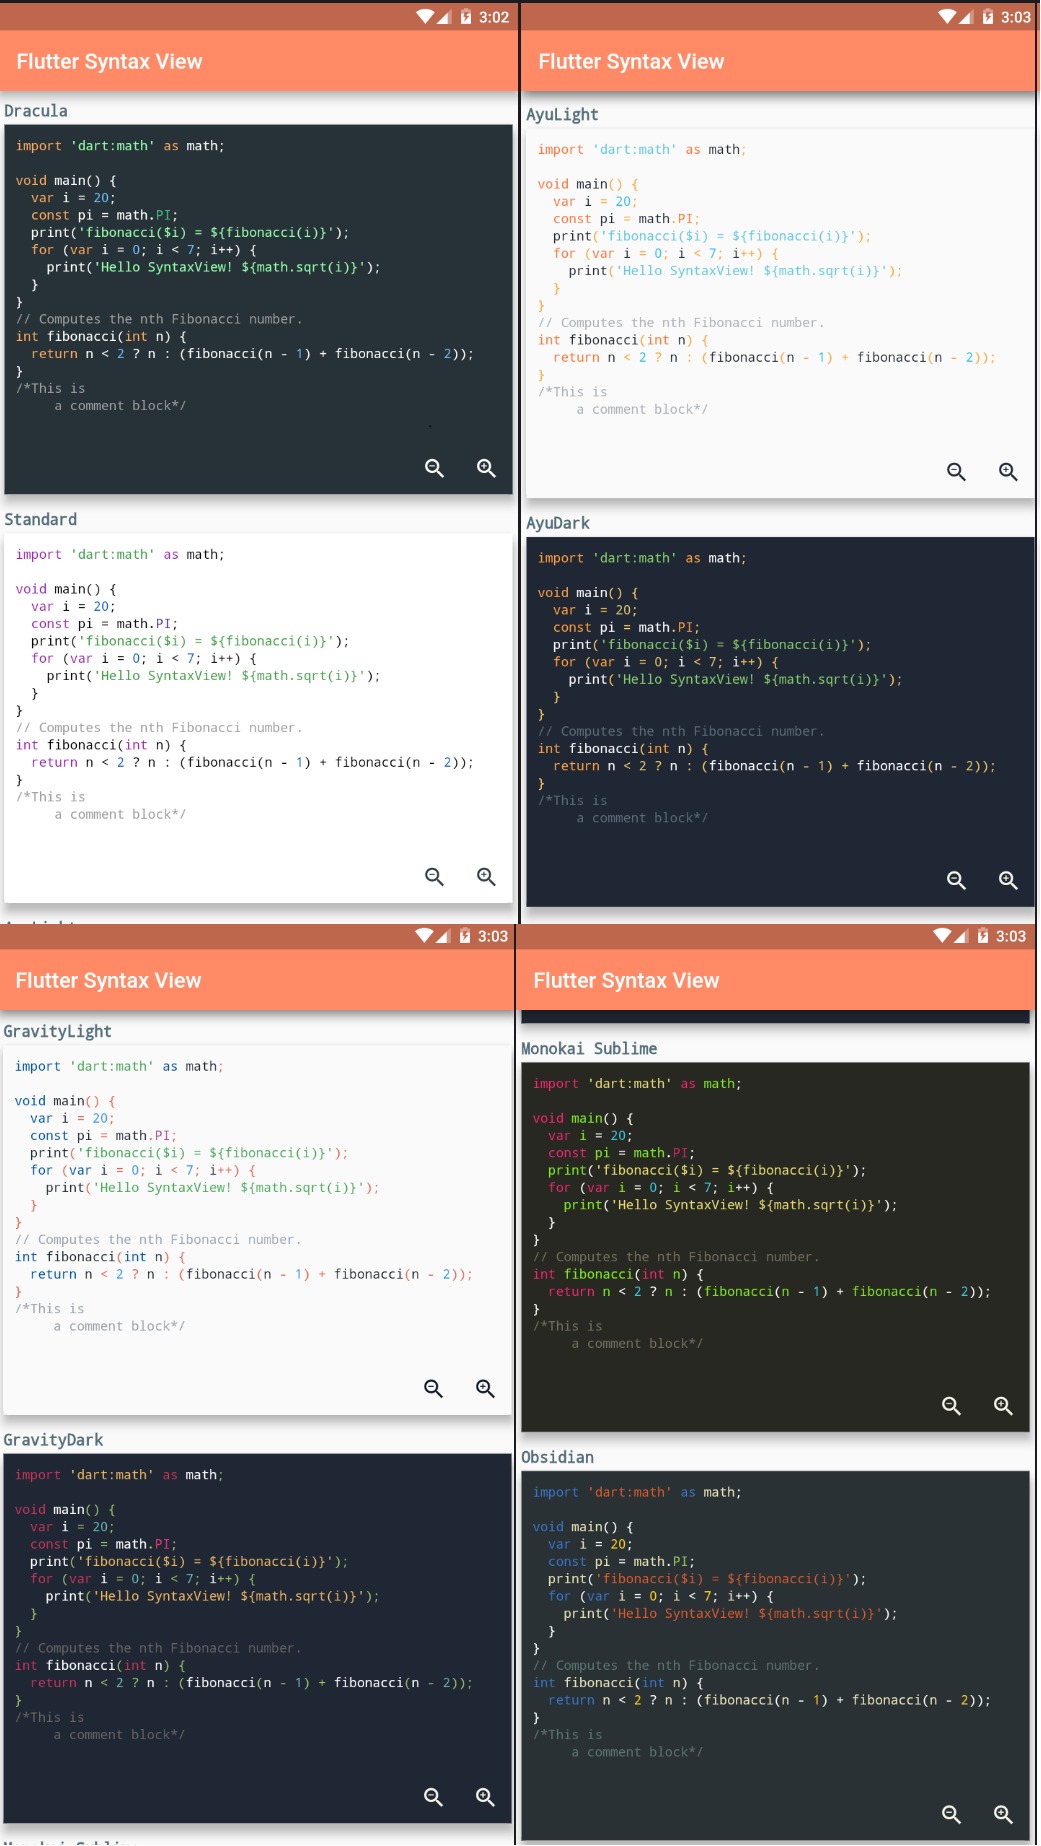
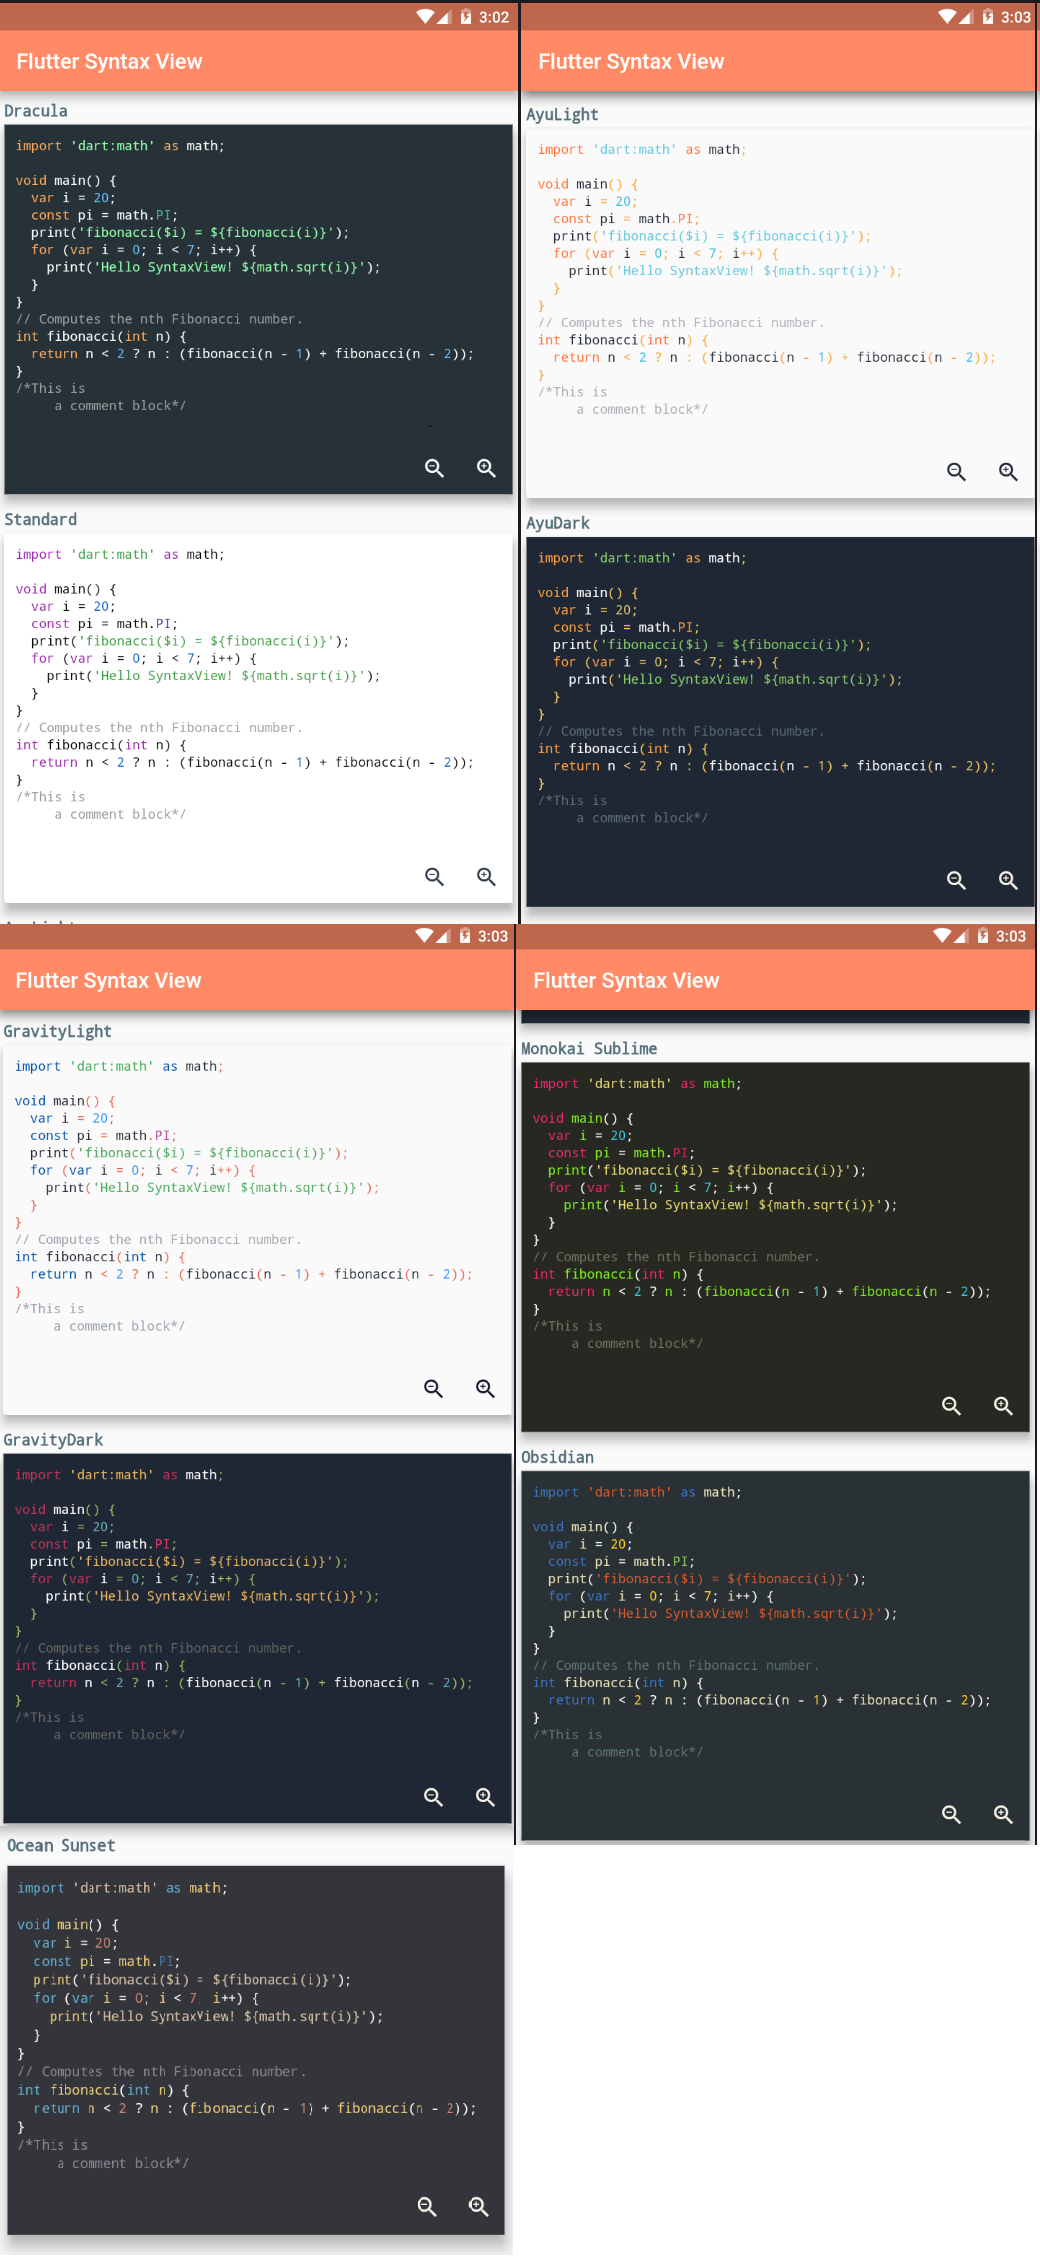
## [0.1.2] - 04/28/2019
* New Syntax Added (Java, Kotlin, Swift).
* New Theme Added (Ocean Sunset).

diff --git a/lib/syntax_theme.dart b/lib/syntax_theme.dart
@@ -27,7 +27,7 @@ class SyntaxTheme {
 
   static SyntaxTheme standard() {
     return SyntaxTheme(
-      backgroundColor: Colors.white,
+      backgroundColor: const Color(0xFFFFFFFF),
       baseStyle: const TextStyle(color: const Color(0xFF000000)),
       numberStyle: const TextStyle(color: const Color(0xFF1565C0)),
       commentStyle: const TextStyle(color: const Color(0xFF9E9E9E)),
@@ -42,7 +42,7 @@ class SyntaxTheme {
 
   static SyntaxTheme dracula() {
     return SyntaxTheme(
-        backgroundColor: Colors.blueGrey[900],
+        backgroundColor: const Color(0xFF607D8B),
         baseStyle: const TextStyle(color: const Color(0xFFFFFFFF)),
         numberStyle: const TextStyle(color: const Color(0xFF6BC1FF)),
         commentStyle: const TextStyle(color: const Color(0xFF9E9E9E)),
@@ -56,7 +56,7 @@ class SyntaxTheme {
 
   static SyntaxTheme ayuLight() {
     return SyntaxTheme(
-        backgroundColor: Color(0xFFFAFAFA),
+        backgroundColor: const Color(0xFFFAFAFA),
         baseStyle: const TextStyle(color: const Color(0xFF202734)),
         numberStyle: const TextStyle(color: const Color(0xFF42BEDF)),
         commentStyle: const TextStyle(color: const Color(0xFFACB1B7)),
@@ -70,7 +70,7 @@ class SyntaxTheme {
 
   static SyntaxTheme ayuDark() {
     return SyntaxTheme(
-        backgroundColor: Color(0xFF202734),
+        backgroundColor: const Color(0xFF202734),
         baseStyle: const TextStyle(color: const Color(0xFFFFFFFF)),
         numberStyle: const TextStyle(color: const Color(0xFFDCC76D)),
         commentStyle: const TextStyle(color: const Color(0xFF5C6C79)),
@@ -84,7 +84,7 @@ class SyntaxTheme {
 
   static SyntaxTheme gravityLight() {
     return SyntaxTheme(
-        backgroundColor: Color(0xFFFAFAFA),
+        backgroundColor: const Color(0xFFFAFAFA),
         baseStyle: const TextStyle(color: const Color(0xFF202734)),
         numberStyle: const TextStyle(color: const Color(0xFF3D94FC)),
         commentStyle: const TextStyle(color: const Color(0xFF9DA4AF)),
@@ -98,7 +98,7 @@ class SyntaxTheme {
 
   static SyntaxTheme gravityDark() {
     return SyntaxTheme(
-        backgroundColor: Color(0xFF202734),
+        backgroundColor: const Color(0xFF202734),
         baseStyle: const TextStyle(color: const Color(0xFFFFFFFF)),
         numberStyle: const TextStyle(color: const Color(0xFF68B3BD)),
         commentStyle: const TextStyle(color: const Color(0xFF666562)),
@@ -112,7 +112,7 @@ class SyntaxTheme {
 
   static SyntaxTheme monokaiSublime() {
     return SyntaxTheme(
-        backgroundColor: Color(0xFF272822),
+        backgroundColor: const Color(0xFF272822),
         baseStyle: const TextStyle(color: const Color(0xFF7FEC21)),
         numberStyle: const TextStyle(color: const Color(0xFF38C9E6)),
         commentStyle: const TextStyle(color: const Color(0xFF75715E)),
@@ -126,7 +126,7 @@ class SyntaxTheme {
 
   static SyntaxTheme obsidian() {
     return SyntaxTheme(
-        backgroundColor: Color(0xFF293134),
+        backgroundColor: const Color(0xFF293134),
         baseStyle: const TextStyle(color: const Color(0xFFE8E2B7)),
         numberStyle: const TextStyle(color: const Color(0xFFFFCD22)),
         commentStyle: const TextStyle(color: const Color(0xFF5D7671)),
@@ -135,6 +135,32 @@ class SyntaxTheme {
         punctuationStyle: const TextStyle(color: const Color(0xFFFFFFFF)),
         classStyle: const TextStyle(color: const Color(0xFF93C763)),
         constantStyle: const TextStyle(color: const Color(0xFF294F8B)),
+        zoomIconColor: const Color(0xFFF8F6EB));
+  }
+
+  static SyntaxTheme oceanSunset() {
+    return SyntaxTheme(
+        backgroundColor: const Color(0xFF33353B),
+        baseStyle: const TextStyle(color: const Color(0xFFEBCB7B)),
+
+        /// main fibonacci...
+        numberStyle: const TextStyle(color: const Color(0xFFD08770)),
+        commentStyle: const TextStyle(color: const Color(0xFF908995)),
+        keywordStyle: const TextStyle(color: const Color(0xFF62AED2)),
+
+        /// return import .. _keyWords
+        stringStyle: const TextStyle(color: const Color(0xFFD9C0A5)),
+
+        /// "content"
+        punctuationStyle: const TextStyle(color: const Color(0xFFFFFFFF)),
+
+        /// { () ; . ? < > - + * /
+        classStyle: const TextStyle(color: const Color(0xFF4C77A2)),
+
+        /// math.PI => PI color
+        constantStyle: const TextStyle(color: const Color(0xFF428CB4)),
+
+        /// const
         zoomIconColor: const Color(0xFFF8F6EB));
   }
 }

diff --git a/lib/flutter_syntax_view.dart b/lib/flutter_syntax_view.dart
@@ -6,6 +6,9 @@ import 'package:flutter_syntax_view/syntax_theme.dart';
 
 ///Import Available Syntaxes
 import 'package:flutter_syntax_view/syntaxes/dart.dart';
+import 'package:flutter_syntax_view/syntaxes/java.dart';
+import 'package:flutter_syntax_view/syntaxes/kotlin.dart';
+import 'package:flutter_syntax_view/syntaxes/swift.dart';
 
 ///Export classes to include them here. user will have to import the needed classes if you didn't export from here.
 export 'package:flutter_syntax_view/syntax_theme.dart';
@@ -13,6 +16,10 @@ export 'package:flutter_syntax_view/syntax_theme.dart';
 ///Supported Syntaxes Enum
 enum Syntax {
   DART,
+  JAVA,
+  KOTLIN,
+  SWIFT
+
   ///TODO SUPPORT MORE SYNTAXES
 }
 
@@ -33,6 +40,12 @@ class SyntaxView extends StatefulWidget {
     switch (syntax) {
       case Syntax.DART:
         return DartSyntaxHighlighter(this.syntaxTheme);
+      case Syntax.JAVA:
+        return JavaSyntaxHighlighter(this.syntaxTheme);
+      case Syntax.KOTLIN:
+        return KotlinSyntaxHighlighter(this.syntaxTheme);
+      case Syntax.SWIFT:
+        return SwiftSyntaxHighlighter(this.syntaxTheme);
       default:
         return DartSyntaxHighlighter(this.syntaxTheme);
     }

diff --git a/test/flutter_syntax_view_test.dart b/test/flutter_syntax_view_test.dart
@@ -1,2 +1,1 @@
-void main(){}
-
+void main() {}

diff --git a/CHANGELOG.md b/CHANGELOG.md
@@ -9,3 +9,8 @@
 ## [0.1.1] - 04/27/2019
 
 * Fixed a Warning.
+
+## [0.1.2] - 04/28/2019
+
+* New Syntax Added (Java, Kotlin, Swift).
+* New Theme Added (Ocean Sunset).
